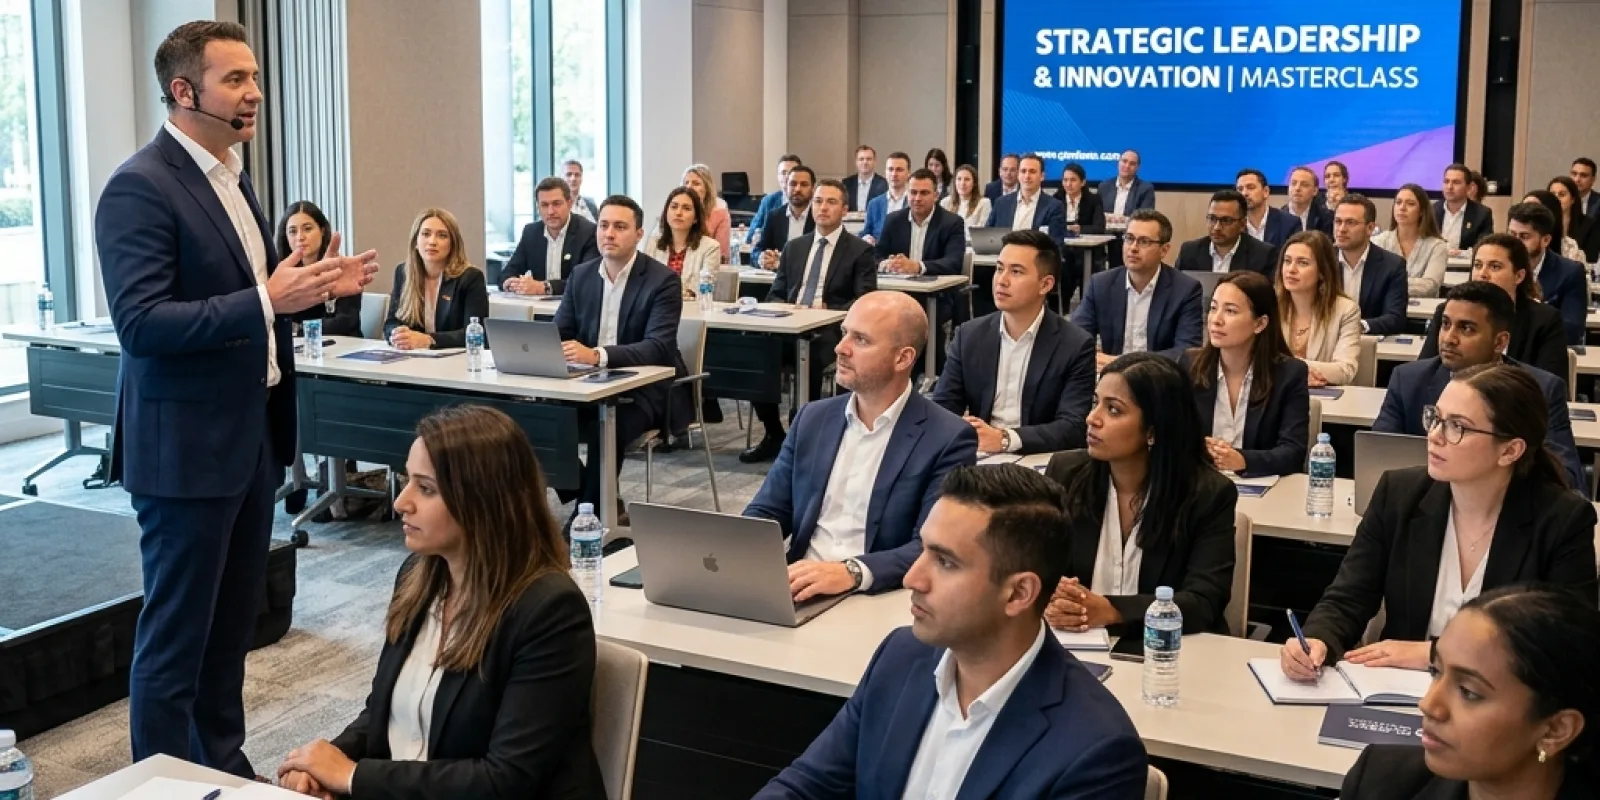
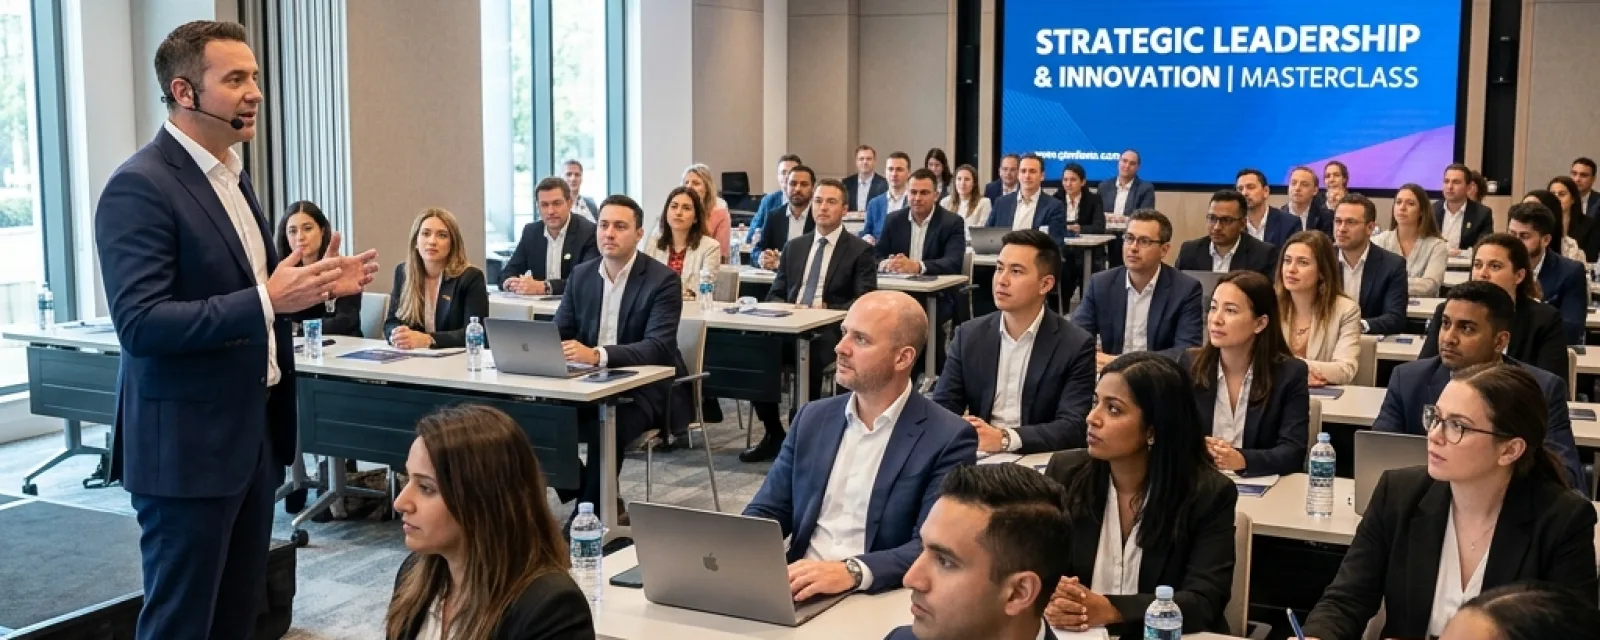
style(tentang): rapatkan Profil Perusahaan dan lebarkan kartu PDF-nya
Kolomnya dirata-atas, bukan dirata-tengah. Teks profilnya satu paragraf
pendek sementara fotonya tinggi, jadi perataan tengah membuat paragraf
itu melayang jauh di bawah judulnya dan judulnya kehilangan isi.

Foto dipendekkan dari 2:1 ke 5:2 — perbandingan yang sama dengan acuan
yang dikirim. Selain lebih memanjang, ia menahan tinggi fotonya supaya
tidak menjulang jauh melewati paragraf di sebelahnya.

Jarak judul ke isi dan jarak bawah seksi dipendekkan: kartu PDF di
bawahnya masih tentang Profil Perusahaan juga, jadi keduanya harus
terbaca sebagai satu blok, bukan dua seksi bersebelahan.

Kartu PDF kehilangan max-w-4xl dan kini selebar container, sama dengan
panel berkas di halaman Layanan. Dua kartu dokumen yang sama bentuknya
tapi beda lebarnya terbaca sebagai dua komponen berbeda padahal bukan.

diff --git a/resources/views/pages/about.blade.php b/resources/views/pages/about.blade.php
@@ -48,11 +48,17 @@
             }
         }
     @endphp
-    <section class="section bg-white">
+    {{-- Jarak bawahnya dipendekkan dari .section: kartu PDF di seksi berikutnya
+         masih tentang Profil Perusahaan juga, jadi keduanya dibaca sebagai satu
+         blok, bukan dua seksi yang kebetulan bersebelahan. --}}
+    <section class="bg-white pb-14 pt-20 md:pb-16 md:pt-28 lg:pt-36">
         <div class="container">
             <h2 class="text-display-lg font-bold text-navy" data-aos="fade-up">{{ $isId ? 'Profil Perusahaan' : 'Company Profile' }}</h2>
 
-            <div class="mt-10 grid items-center gap-10 lg:mt-12 lg:grid-cols-12 lg:gap-14">
+            {{-- Rata atas, bukan rata tengah. Teks profilnya satu paragraf pendek
+                 sementara fotonya tinggi; kalau dipusatkan, paragraf itu melayang
+                 jauh di bawah judulnya dan judulnya kehilangan isi. --}}
+            <div class="mt-8 grid items-start gap-8 lg:mt-10 lg:grid-cols-12 lg:gap-12">
                 {{-- Rata kiri, tidak rata kanan-kiri: di kolom selebar ini perataan
                      penuh membuka celah putih memanjang di tengah paragraf. --}}
                 <div class="space-y-4 text-base leading-relaxed text-slate-700 lg:col-span-5" data-aos="fade-up">
@@ -63,14 +69,16 @@
                 </div>
 
                 <div class="relative lg:col-span-7" data-aos="fade-up" data-aos-delay="100">
-                    {{-- Perbandingan 2:1 di layar lebar, bukan tinggi kolom teks: teksnya
+                    {{-- Perbandingan 5:2 di layar lebar, bukan tinggi kolom teks: teksnya
                          pendek, jadi foto yang mengikutinya akan jadi kotak dan kehilangan
-                         bentuk memanjang yang diminta. Di layar sempit perbandingannya
-                         dilonggarkan supaya orang di dalam foto tidak jadi sepita tipis. --}}
-                    <div class="aspect-[16/10] overflow-hidden rounded-2xl bg-mist shadow-card lg:aspect-[2/1]">
+                         bentuk memanjang yang diminta. Lima banding dua juga menahan tinggi
+                         fotonya supaya tidak menjulang jauh melewati paragraf di sebelahnya.
+                         Di layar sempit perbandingannya dilonggarkan supaya orang di dalam
+                         foto tidak jadi sepita tipis. --}}
+                    <div class="aspect-[16/10] overflow-hidden rounded-2xl bg-mist shadow-card lg:aspect-[5/2]">
                         <img src="{{ asset('images/profil-perusahaan.webp') }}"
                              alt="{{ $isId ? 'Sesi pelatihan PT Delta Tiga Enam' : 'A PT Delta Tiga Enam training session' }}"
-                             width="1600" height="800" loading="lazy" decoding="async"
+                             width="1600" height="640" loading="lazy" decoding="async"
                              class="h-full w-full object-cover">
                     </div>
 
@@ -110,14 +118,18 @@
             {{-- shadow-card at rest, not shadow-lift: a 1px border paired with a 48px-blur
                  shadow is the "ghost card" look. One or the other, and hover-shadow-2xl was
                  a Tailwind default that sits outside this site's shadow scale.
-                 Radius 2xl to match every other card. --}}
-            <div class="group relative mx-auto max-w-4xl overflow-hidden rounded-2xl border border-navy-100 bg-gradient-to-br from-white via-white to-mist p-7 shadow-card transition-shadow duration-300 hover:shadow-lift md:p-10" data-aos="fade-up">
+                 Radius 2xl to match every other card.
+
+                 Selebar container, tanpa max-w-4xl: panel berkas di halaman Layanan
+                 selebar itu, dan dua kartu dokumen yang sama bentuknya tapi beda
+                 lebarnya terbaca sebagai dua komponen berbeda padahal bukan. --}}
+            <div class="group relative overflow-hidden rounded-2xl border border-navy-100 bg-gradient-to-br from-white via-white to-mist p-7 shadow-card transition-shadow duration-300 hover:shadow-lift md:p-9" data-aos="fade-up">
                 {{-- soft ambient glows --}}
                 <div class="pointer-events-none absolute -right-20 -top-20 h-56 w-56 rounded-full bg-gold/10 blur-3xl"></div>
                 <div class="pointer-events-none absolute -left-16 -bottom-16 h-44 w-44 rounded-full bg-sky-400/10 blur-3xl"></div>
 
                 <div class="relative flex flex-col items-start gap-7 md:flex-row md:items-center md:justify-between md:gap-10">
-                    <div class="flex items-center gap-5">
+                    <div class="flex items-start gap-6">
                         {{-- Stylised PDF page (tilts + lifts on hover) --}}
                         <div class="relative shrink-0">
                             <div class="grid h-24 w-[4.5rem] place-items-center rounded-xl bg-gradient-to-br from-navy-800 to-navy-950 shadow-lift ring-1 ring-white/10 transition-transform duration-300 ease-out-soft group-hover:-translate-y-1 group-hover:-rotate-3">
